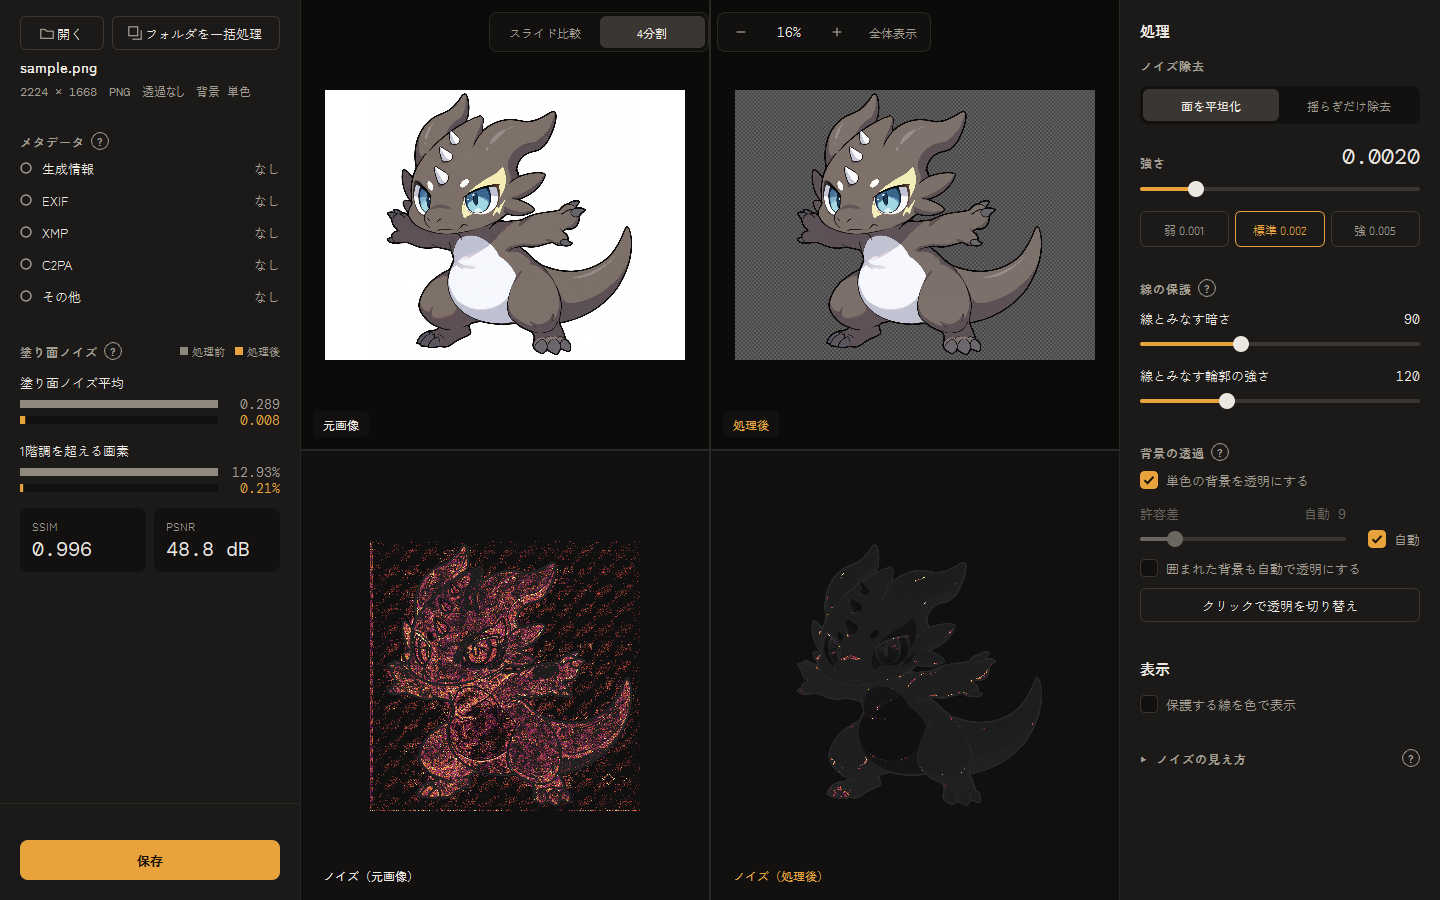
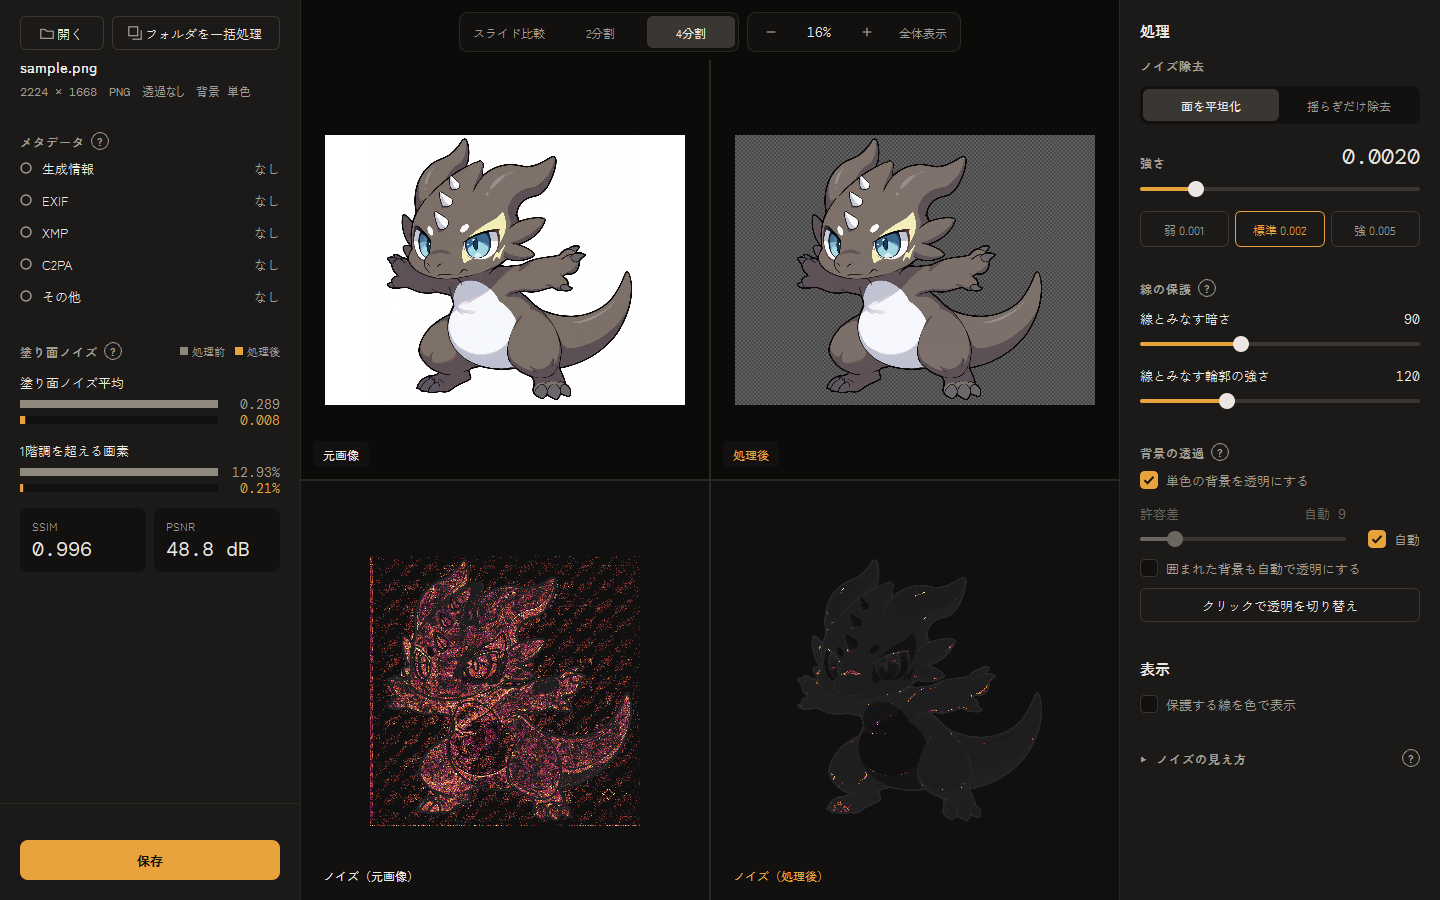
README の上部に技術スタックを並べ、使い方を手順ごとの画面にする

Changed region(s): [[0.2188, 0.0933, 0.7812, 0.5289], [0.25, 0.5911, 0.4375, 0.9333], [0.3438, 0.0, 0.6562, 0.0622]]

diff --git a/tools/make_usage_shots.py b/tools/make_usage_shots.py
@@ -1,0 +1,72 @@
+"""README の「使い方」の画面とバナーの元の画面を撮る（画面は表示しない）
+
+使い方: uv run python tools/make_usage_shots.py
+出力:   docs/usage_1_start.png・usage_2_open.png・usage_3_check.png・main.png
+"""
+import sys
+from pathlib import Path
+
+ROOT = Path(__file__).resolve().parent.parent
+sys.path.insert(0, str(ROOT))
+
+from PySide6.QtCore import QEventLoop, Qt, QTimer  # noqa: E402
+
+from gui.__main__ import create_app  # noqa: E402
+from gui.window import MainWindow  # noqa: E402
+
+SAMPLE = ROOT / 'docs' / 'sample.png'
+EYE = (980.0, 660.0)   # 拡大して見せる場所（sample.png の目）
+CHECK_ZOOM = 4.0
+
+app = create_app()
+win = MainWindow()
+win.setAttribute(Qt.WA_DontShowOnScreen)   # 実際の見た目のまま、画面には出さずに撮る
+win.resize(1440, 900)
+win.show()
+
+
+def wait(ms):
+    loop = QEventLoop()
+    QTimer.singleShot(ms, loop.quit)
+    loop.exec()
+
+
+def settle():
+    wait(300)
+    while not win.is_idle():
+        wait(100)
+    wait(300)
+
+
+def shot(name):
+    app.processEvents()
+    path = ROOT / 'docs' / f'{name}.png'
+    win.grab().save(str(path))
+    print('saved:', path)
+
+
+wait(300)
+shot('usage_1_start')
+
+win.open_image(SAMPLE)
+wait(300)
+settle()
+win.viewer.set_mode('pair')
+win.viewer.set_pair('orig_noise')
+settle()
+shot('usage_2_open')
+
+win.viewer.set_mode('slide')
+win.viewer.set_view('noise')
+win.viewer.cx, win.viewer.cy = EYE
+win.viewer.zoom_by(CHECK_ZOOM / win.viewer.zoom)
+settle()
+shot('usage_3_check')
+
+win.viewer.set_view('image')
+win.viewer.set_mode('quad')
+win.viewer.fit()
+win.panel.cutout.setChecked(True)   # バナーには背景の透過の結果も写す
+settle()
+shot('main')
+win.close()

diff --git a/README.md b/README.md
@@ -1,5 +1,18 @@
 # ai-illust-cleaner
 
+[![Release](https://img.shields.io/github/v/release/kuronekorou39/ai-illust-cleaner)](https://github.com/kuronekorou39/ai-illust-cleaner/releases)
+![Windows](https://img.shields.io/badge/Windows-10_%2F_11-0078D4)
+[![License](https://img.shields.io/github/license/kuronekorou39/ai-illust-cleaner)](LICENSE)
+![Python](https://img.shields.io/badge/Python-3.12-3776AB?logo=python&logoColor=white)
+![PySide6](https://img.shields.io/badge/PySide6-Qt_6-41CD52?logo=qt&logoColor=white)
+![OpenCV](https://img.shields.io/badge/OpenCV-5C3EE8?logo=opencv&logoColor=white)
+![NumPy](https://img.shields.io/badge/NumPy-013243?logo=numpy&logoColor=white)
+![SciPy](https://img.shields.io/badge/SciPy-8CAAE6?logo=scipy&logoColor=white)
+![Pillow](https://img.shields.io/badge/Pillow-4B8BBE)
+![PyInstaller](https://img.shields.io/badge/PyInstaller-2B5B84)
+![uv](https://img.shields.io/badge/uv-DE5FE9?logo=uv&logoColor=white)
+![pytest](https://img.shields.io/badge/pytest-0A9EDC?logo=pytest&logoColor=white)
+
 ![ai-illust-cleaner](docs/banner.png)
 
 AI生成イラストのメタデータの確認、ノイズの可視化と除去、背景の透過ができる Windows 用のツール。
@@ -17,11 +30,19 @@ AI生成イラストのメタデータの確認、ノイズの可視化と除去
 
 ## 使い方
 
-1. 画像をウィンドウにドラッグ＆ドロップする（フォルダを落とすと一括処理）
-2. 左でメタデータとノイズの量を確かめ、右で処理の強さなどを調整する
-3. 左下の「保存」を押し、処理を反映するかと、削除するメタデータを選ぶ
+**1. 画像を取り込む**：起動した画面にドラッグ＆ドロップする（フォルダを落とすと一括処理）
 
-![画面](docs/main.png)
+![起動した画面](docs/usage_1_start.png)
+
+**2. 全体を確かめる**：左にメタデータとノイズの量が出る。中央は2分割や4分割で見比べられる
+
+![画像とノイズを並べた画面](docs/usage_2_open.png)
+
+**3. 拡大して比べる**：スライド比較で処理前後のノイズを見て、右で強さなどを調整する
+
+![目のあたりを拡大して処理前後のノイズを比べた画面](docs/usage_3_check.png)
+
+**4. 保存する**：左下の「保存」で、処理を反映するかと、削除するメタデータを選ぶ
 
 詳しい使い方は [docs/guide.md](docs/guide.md) にある。
 
@@ -32,15 +53,7 @@ AI生成イラストのメタデータの確認、ノイズの可視化と除去
 | メタデータ | PNG・JPEG・WebP の生成情報（A1111 / Forge・ComfyUI・NovelAI・InvokeAI）・EXIF・XMP・C2PA |
 | ノイズ除去 | PNG・JPEG・WebP など（塗りの細かな色ムラ。保存は PNG） |
 
-## 技術スタック
-
-| 用途 | 使っているもの |
-|---|---|
-| 言語 | Python 3.12 |
-| 画面 | PySide6（Qt 6） |
-| 画像処理 | OpenCV（contrib の L0 スムージングなど）・NumPy・SciPy・Pillow |
-| exe の作成 | PyInstaller |
-| 開発 | uv・pytest・GitHub Actions |
+## 開発
 
 開発の手順（起動・テスト・exe の作成・リリース）は [docs/development.md](docs/development.md) にある。
 
